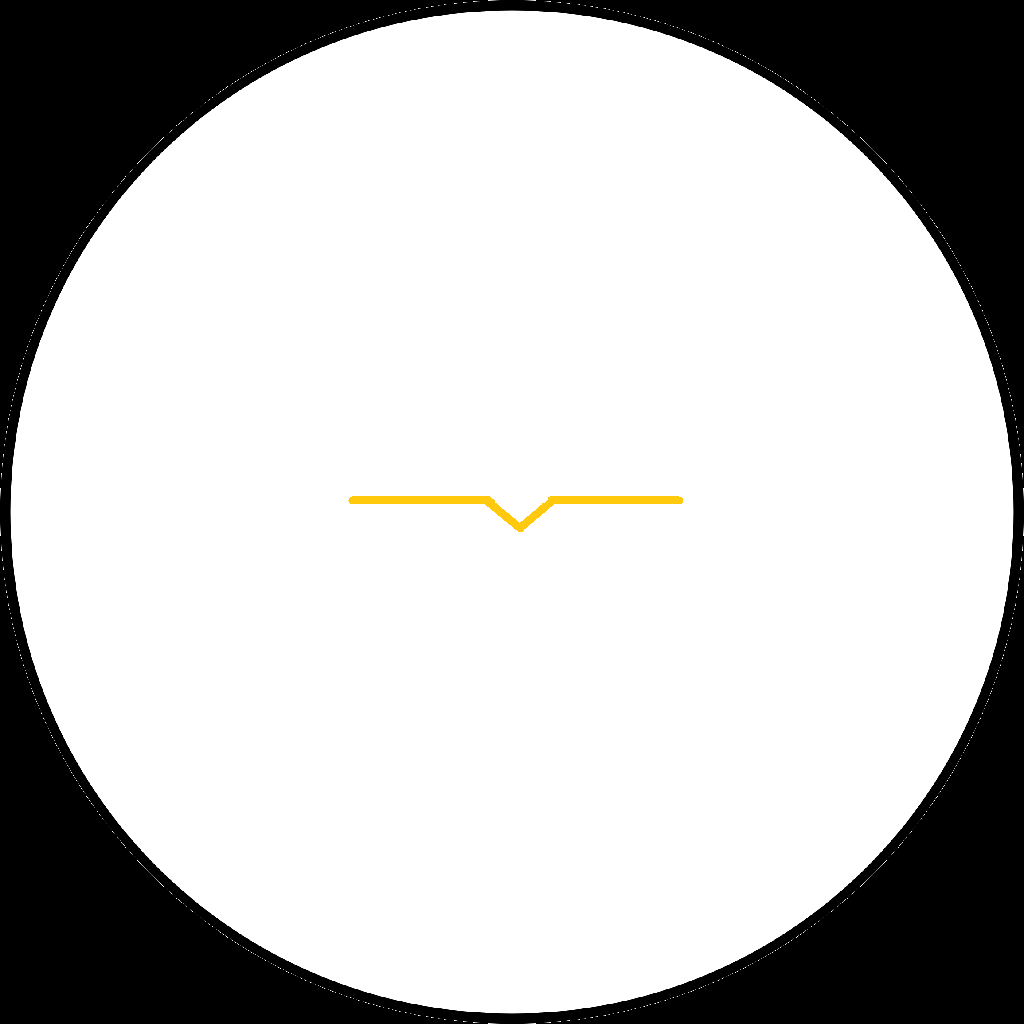
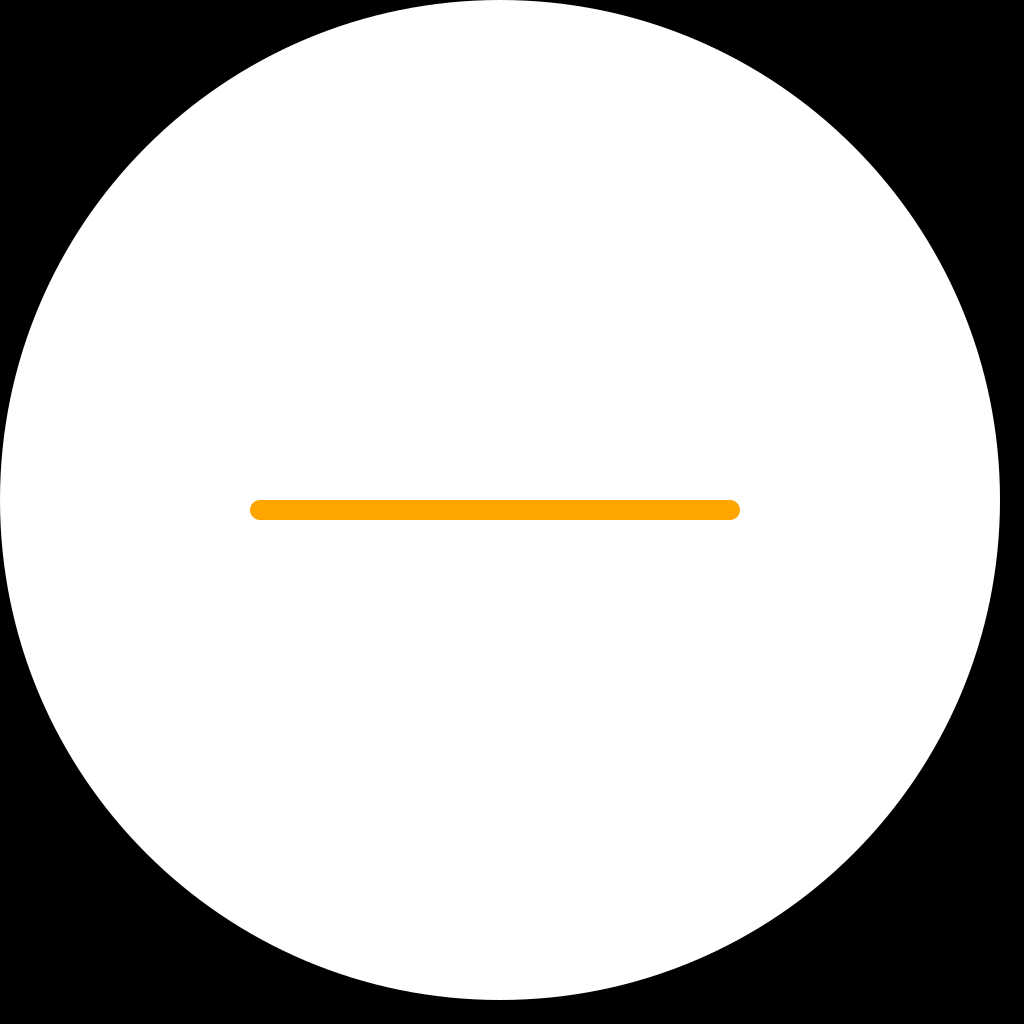
Improvments to AttitudeIndicator and VerticalScrollImage

diff --git a/VerticalScrollImage.qml b/VerticalScrollImage.qml
@@ -1,26 +1,34 @@
 import QtQuick
 
-Image {
+Item {
     id: root
 
-    required property QtObject frame
-    required source
+    property alias source: image.source
+    property real scroll: 0
 
-    property int center: (frame.height - height) / 2
-    property bool scrollable: (height > frame.height)
-    property int maxScroll: (height - frame.height) / 2
+    clip: true
 
-    function __calculateScrollY() {
-        if (!scrollable) {
-            return center
+    Image {
+        id: image
+
+        required source
+
+        property int center: (root.height - height) / 2
+        property bool scrollable: (height > root.height)
+        property int maxScroll: (height - root.height) / 2 // Maximum pixels to scroll
+
+        function __calculateScrollY() {
+            if (!scrollable) {
+                return center
+            }
+
+            return center + (maxScroll * scroll)
         }
 
-        return center + (maxScroll * pitch)
+        width: root.width
+        height: implicitHeight * (width / implicitWidth) // Maintain aspect ratio
+
+        anchors.horizontalCenter: root.horizontalCenter
+        y: __calculateScrollY()
     }
-
-    anchors.horizontalCenter: frame.horizontalCenter
-    width: frame.width
-    height: implicitHeight * (width / implicitWidth) // Maintain aspect ratio
-
-    y: __calculateScrollY()
 }

diff --git a/Main.qml b/Main.qml
@@ -2,27 +2,49 @@ import QtQuick
 import QtQuick.Controls
 
 Window {
-    width: 500
+    width: 300
     height: 600
     visible: true
-    title: qsTr("Hello World")
+    title: qsTr("IFR Simulator")
 
-    AttitudeIndicator {
-        id: horizon
 
-        size: { Math.min( parent.width, parent.height ) }
-        anchors.horizontalCenter: parent.horizontalCenter
 
-        pitch: horizonPitch.value
-    }
+    Column {
+        anchors.fill: parent
 
-    Slider {
-        id: horizonPitch
+        AttitudeIndicator {
+            id: horizon
 
-        width: parent.width
+            size: 300
 
-        from: -1
-        value: 0
-        to: 1
+            pitch: 2 * (stick.y - height/2) / height
+            roll: 360 * (stick.x - width/2) / width
+        }
+
+        Rectangle {
+            width: 300
+            height: 300
+
+            color: "grey"
+
+            MouseArea {
+                anchors.fill: parent
+
+                drag { target: stick; axis: Drag.XAndYAxis; smoothed: false }
+
+                Rectangle {
+                    id: stick
+
+                    width: 30
+                    height: 30
+
+                    x: 150
+                    y: 150
+
+                    color: "black"
+                    radius: width / 2
+                }
+            }
+        }
     }
 }

diff --git a/AttitudeIndicator.qml b/AttitudeIndicator.qml
@@ -4,7 +4,8 @@ Item {
     id: root
 
     property alias size: root.width
-    property real pitch: 0
+    property alias pitch: bg.scroll
+    property real roll: 0
 
     implicitWidth: 100
     width: implicitWidth
@@ -15,12 +16,14 @@ Item {
         id: bg
         source: "attitude_bg.png"
 
-        frame: root
+        rotation: -roll
+
+        anchors.fill: parent
     }
 
     Image {
         id: fg
-        source: "attitude_fg.png"
+        source: "attitude_fg.svg"
 
         anchors.fill: root
     }
